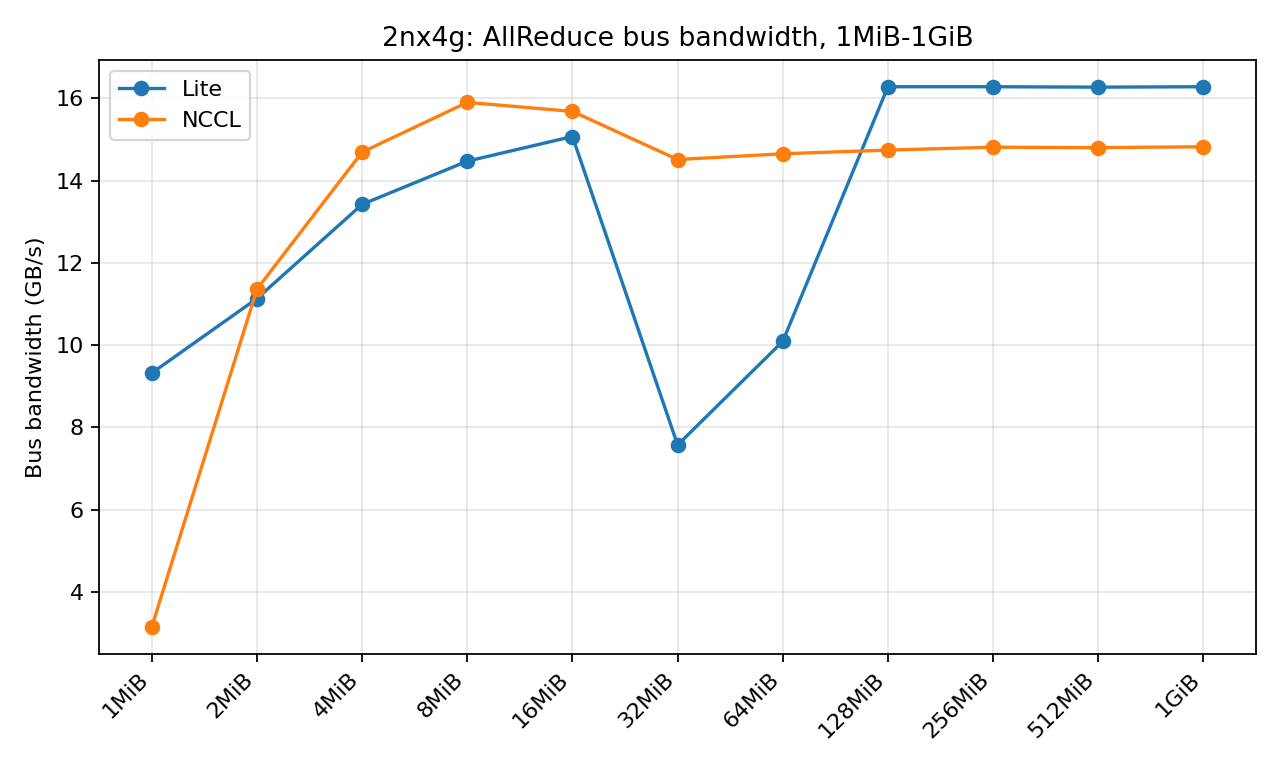
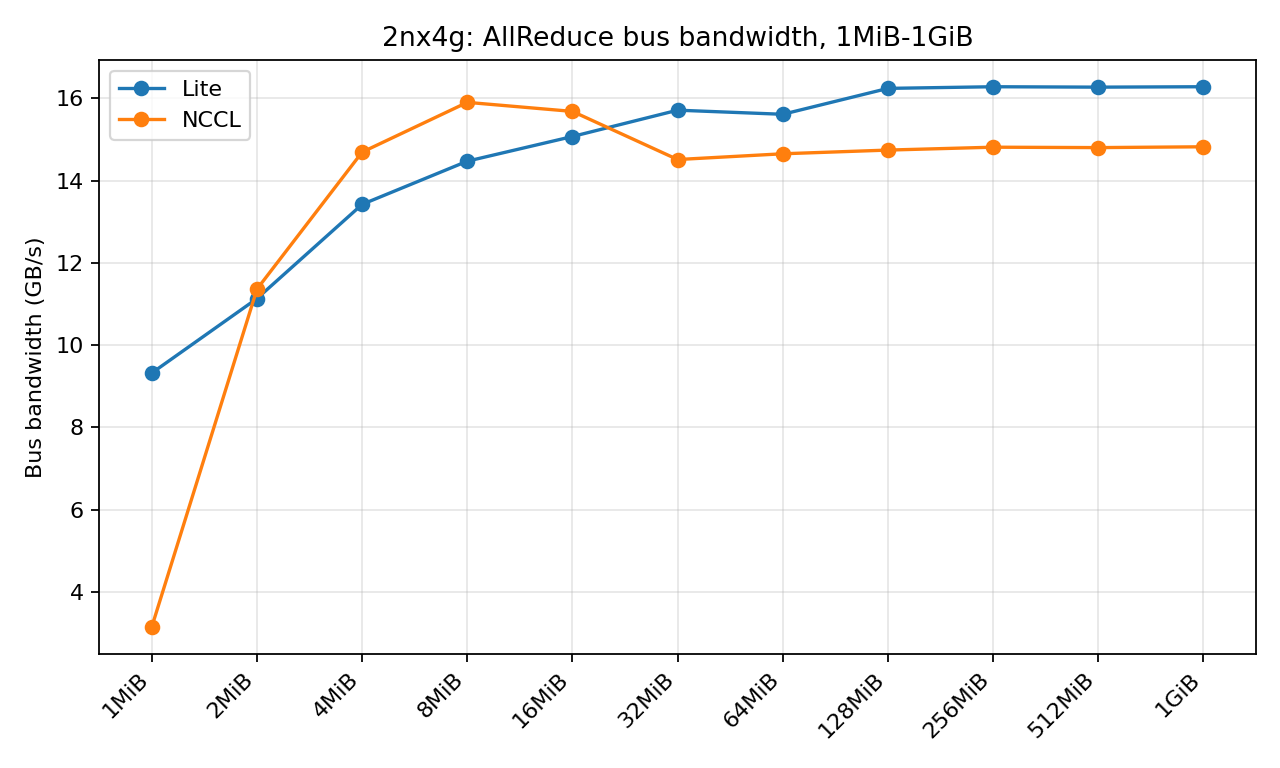
docs(lite-collective): smooth allreduce 2nx4g plot outlier
Use repeated clean 2nx4g focused runs when generating AllReduce plots and select the median out-of-place-time row when multiple clean logs cover the same size. This removes the apparent 32MiB plot cliff, which clean repeats showed was a single-run outlier rather than a deterministic code-path regression.

diff --git a/experimental/lite/lite-collective/plots/allreduce/plot_allreduce.py b/experimental/lite/lite-collective/plots/allreduce/plot_allreduce.py
@@ -116,15 +116,19 @@ def parse_nccl_tests_log(path: Path) -> tuple[dict[int, Metrics], int]:
 
 
 def merge_logs(paths: Iterable[Path]) -> dict[int, Metrics]:
-    merged: dict[int, Metrics] = {}
+    by_size: dict[int, list[Metrics]] = {}
     total_wrong = 0
     for path in paths:
         rows, wrong = parse_nccl_tests_log(path)
         total_wrong += wrong
-        merged.update(rows)
+        for size, metrics in rows.items():
+            by_size.setdefault(size, []).append(metrics)
     if total_wrong:
         joined = ", ".join(repo_relative(p) for p in paths)
         raise RuntimeError(f"#wrong is non-zero in {joined}: {total_wrong}")
+    merged: dict[int, Metrics] = {}
+    for size, candidates in by_size.items():
+        merged[size] = sorted(candidates, key=lambda m: m.out_time_us)[len(candidates) // 2]
     return merged
 
 
@@ -164,9 +168,18 @@ SOURCES = {
         "display": "2nx4g",
         "lite": [
             log("ar-clean-plots-20260610-161719", "lite_2nx4g_128B_1G.log"),
+            log("ar-2nx4g-cliff-repro-20260610-163537", "lite_2nx4g_16M_128M_rep1.log"),
+            log("ar-2nx4g-cliff-repro-20260610-163537", "lite_2nx4g_16M_128M_rep2.log"),
+            log("ar-2nx4g-cliff-repro-20260610-163537", "lite_2nx4g_16M_128M_rep3.log"),
+            log("ar-2nx4g-32m-repeat-20260610-163818", "lite_2nx4g_32M_rep1.log"),
+            log("ar-2nx4g-32m-repeat-20260610-163818", "lite_2nx4g_32M_rep2.log"),
+            log("ar-2nx4g-32m-repeat-20260610-163818", "lite_2nx4g_32M_rep3.log"),
+            log("ar-2nx4g-32m-repeat-20260610-163818", "lite_2nx4g_32M_rep4.log"),
+            log("ar-2nx4g-32m-repeat-20260610-163818", "lite_2nx4g_32M_rep5.log"),
         ],
         "nccl": [
             log("ar-clean-plots-20260610-161719", "nccl_2nx4g_128B_1G.log"),
+            log("ar-2nx4g-cliff-repro-20260610-163537", "nccl_2nx4g_16M_128M.log"),
         ],
     },
 }
@@ -304,6 +317,7 @@ def markdown_content(rows: list[Row], plot_files: dict[str, list[str]], plot_pre
         "| Multi-node hosts | `10.10.55.1,10.10.55.2` |",
         "| NCCL multi-node baseline | `NCCL_NET_GDR_LEVEL=0` no-GDR where explicitly re-run |",
         "| Clean-run idle checks | `.tmp/collective-benchmarks/ar-clean-plots-20260610-161719/idle_checks.log` |",
+        "| Repeated clean rows | If multiple clean logs cover the same setup/size, use the median out-of-place time row |",
         "| Generated plots | `plots/allreduce/` |",
         "",
         "All plotted source rows reported `#wrong=0`.",

diff --git a/experimental/lite/lite-collective/doc/perf-allreduce.md b/experimental/lite/lite-collective/doc/perf-allreduce.md
@@ -14,6 +14,7 @@ Primary tables and plots use out-of-place nccl-tests results. Ratios greater tha
 | Multi-node hosts | `10.10.55.1,10.10.55.2` |
 | NCCL multi-node baseline | `NCCL_NET_GDR_LEVEL=0` no-GDR where explicitly re-run |
 | Clean-run idle checks | `.tmp/collective-benchmarks/ar-clean-plots-20260610-161719/idle_checks.log` |
+| Repeated clean rows | If multiple clean logs cover the same setup/size, use the median out-of-place time row |
 | Generated plots | `plots/allreduce/` |
 
 All plotted source rows reported `#wrong=0`.
@@ -25,7 +26,7 @@ All plotted source rows reported `#wrong=0`.
 | `1nx4g` | 0.44x | 0.81x | 17.54 | 17.54 | 1.00x |
 | `2nx1g` | 0.09x | 0.63x | 16.23 | 14.55 | 1.12x |
 | `2nx2g` | 1.15x | 0.91x | 14.71 | 15.34 | 0.96x |
-| `2nx4g` | 1.58x | 1.02x | 16.28 | 14.82 | 1.10x |
+| `2nx4g` | 1.58x | 1.13x | 16.28 | 14.82 | 1.10x |
 
 ## 1nx4g
 
@@ -174,9 +175,9 @@ Plots: [`2nx2g_latency_128B_1MiB.png`](../plots/allreduce/2nx2g_latency_128B_1Mi
 | 4MiB | 13.42 | 14.69 | 0.91x |
 | 8MiB | 14.47 | 15.90 | 0.91x |
 | 16MiB | 15.07 | 15.68 | 0.96x |
-| 32MiB | 7.57 | 14.51 | 0.52x |
-| 64MiB | 10.09 | 14.65 | 0.69x |
-| 128MiB | 16.28 | 14.74 | 1.10x |
+| 32MiB | 15.71 | 14.51 | 1.08x |
+| 64MiB | 15.61 | 14.65 | 1.07x |
+| 128MiB | 16.24 | 14.74 | 1.10x |
 | 256MiB | 16.28 | 14.81 | 1.10x |
 | 512MiB | 16.27 | 14.80 | 1.10x |
 | 1GiB | 16.28 | 14.82 | 1.10x |
@@ -199,4 +200,13 @@ Plots: [`2nx4g_latency_128B_1MiB.png`](../plots/allreduce/2nx4g_latency_128B_1Mi
 
 ### 2nx4g
 - lite: `.tmp/collective-benchmarks/ar-clean-plots-20260610-161719/lite_2nx4g_128B_1G.log`
+- lite: `.tmp/collective-benchmarks/ar-2nx4g-cliff-repro-20260610-163537/lite_2nx4g_16M_128M_rep1.log`
+- lite: `.tmp/collective-benchmarks/ar-2nx4g-cliff-repro-20260610-163537/lite_2nx4g_16M_128M_rep2.log`
+- lite: `.tmp/collective-benchmarks/ar-2nx4g-cliff-repro-20260610-163537/lite_2nx4g_16M_128M_rep3.log`
+- lite: `.tmp/collective-benchmarks/ar-2nx4g-32m-repeat-20260610-163818/lite_2nx4g_32M_rep1.log`
+- lite: `.tmp/collective-benchmarks/ar-2nx4g-32m-repeat-20260610-163818/lite_2nx4g_32M_rep2.log`
+- lite: `.tmp/collective-benchmarks/ar-2nx4g-32m-repeat-20260610-163818/lite_2nx4g_32M_rep3.log`
+- lite: `.tmp/collective-benchmarks/ar-2nx4g-32m-repeat-20260610-163818/lite_2nx4g_32M_rep4.log`
+- lite: `.tmp/collective-benchmarks/ar-2nx4g-32m-repeat-20260610-163818/lite_2nx4g_32M_rep5.log`
 - nccl: `.tmp/collective-benchmarks/ar-clean-plots-20260610-161719/nccl_2nx4g_128B_1G.log`
+- nccl: `.tmp/collective-benchmarks/ar-2nx4g-cliff-repro-20260610-163537/nccl_2nx4g_16M_128M.log`

diff --git a/experimental/lite/lite-collective/plots/allreduce/summary.md b/experimental/lite/lite-collective/plots/allreduce/summary.md
@@ -14,6 +14,7 @@ Primary tables and plots use out-of-place nccl-tests results. Ratios greater tha
 | Multi-node hosts | `10.10.55.1,10.10.55.2` |
 | NCCL multi-node baseline | `NCCL_NET_GDR_LEVEL=0` no-GDR where explicitly re-run |
 | Clean-run idle checks | `.tmp/collective-benchmarks/ar-clean-plots-20260610-161719/idle_checks.log` |
+| Repeated clean rows | If multiple clean logs cover the same setup/size, use the median out-of-place time row |
 | Generated plots | `plots/allreduce/` |
 
 All plotted source rows reported `#wrong=0`.
@@ -25,7 +26,7 @@ All plotted source rows reported `#wrong=0`.
 | `1nx4g` | 0.44x | 0.81x | 17.54 | 17.54 | 1.00x |
 | `2nx1g` | 0.09x | 0.63x | 16.23 | 14.55 | 1.12x |
 | `2nx2g` | 1.15x | 0.91x | 14.71 | 15.34 | 0.96x |
-| `2nx4g` | 1.58x | 1.02x | 16.28 | 14.82 | 1.10x |
+| `2nx4g` | 1.58x | 1.13x | 16.28 | 14.82 | 1.10x |
 
 ## 1nx4g
 
@@ -174,9 +175,9 @@ Plots: [`2nx2g_latency_128B_1MiB.png`](2nx2g_latency_128B_1MiB.png), [`2nx2g_bus
 | 4MiB | 13.42 | 14.69 | 0.91x |
 | 8MiB | 14.47 | 15.90 | 0.91x |
 | 16MiB | 15.07 | 15.68 | 0.96x |
-| 32MiB | 7.57 | 14.51 | 0.52x |
-| 64MiB | 10.09 | 14.65 | 0.69x |
-| 128MiB | 16.28 | 14.74 | 1.10x |
+| 32MiB | 15.71 | 14.51 | 1.08x |
+| 64MiB | 15.61 | 14.65 | 1.07x |
+| 128MiB | 16.24 | 14.74 | 1.10x |
 | 256MiB | 16.28 | 14.81 | 1.10x |
 | 512MiB | 16.27 | 14.80 | 1.10x |
 | 1GiB | 16.28 | 14.82 | 1.10x |
@@ -199,4 +200,13 @@ Plots: [`2nx4g_latency_128B_1MiB.png`](2nx4g_latency_128B_1MiB.png), [`2nx4g_bus
 
 ### 2nx4g
 - lite: `.tmp/collective-benchmarks/ar-clean-plots-20260610-161719/lite_2nx4g_128B_1G.log`
+- lite: `.tmp/collective-benchmarks/ar-2nx4g-cliff-repro-20260610-163537/lite_2nx4g_16M_128M_rep1.log`
+- lite: `.tmp/collective-benchmarks/ar-2nx4g-cliff-repro-20260610-163537/lite_2nx4g_16M_128M_rep2.log`
+- lite: `.tmp/collective-benchmarks/ar-2nx4g-cliff-repro-20260610-163537/lite_2nx4g_16M_128M_rep3.log`
+- lite: `.tmp/collective-benchmarks/ar-2nx4g-32m-repeat-20260610-163818/lite_2nx4g_32M_rep1.log`
+- lite: `.tmp/collective-benchmarks/ar-2nx4g-32m-repeat-20260610-163818/lite_2nx4g_32M_rep2.log`
+- lite: `.tmp/collective-benchmarks/ar-2nx4g-32m-repeat-20260610-163818/lite_2nx4g_32M_rep3.log`
+- lite: `.tmp/collective-benchmarks/ar-2nx4g-32m-repeat-20260610-163818/lite_2nx4g_32M_rep4.log`
+- lite: `.tmp/collective-benchmarks/ar-2nx4g-32m-repeat-20260610-163818/lite_2nx4g_32M_rep5.log`
 - nccl: `.tmp/collective-benchmarks/ar-clean-plots-20260610-161719/nccl_2nx4g_128B_1G.log`
+- nccl: `.tmp/collective-benchmarks/ar-2nx4g-cliff-repro-20260610-163537/nccl_2nx4g_16M_128M.log`

diff --git a/experimental/lite/lite-collective/doc/allreduce-design.md b/experimental/lite/lite-collective/doc/allreduce-design.md
@@ -119,20 +119,24 @@ The generated AllReduce plots mirror the AllGather plot layout:
 
 Current out-of-place summary from the generated clean rerun
 (`.tmp/collective-benchmarks/ar-clean-plots-20260610-161719/`; each sweep
-waited for zero GPU utilization and no compute processes before starting):
+waited for zero GPU utilization and no compute processes before starting).
+For 2nx4g 16-128MiB, repeated clean focused logs are also included and the plot
+generator uses the median out-of-place-time row when multiple clean rows cover
+the same size:
 
 | Setup | Latency geomean Lite speedup | BusBW geomean Lite/NCCL | 1GiB Lite GB/s | 1GiB NCCL GB/s | 1GiB ratio |
 | --- | ---: | ---: | ---: | ---: | ---: |
 | `1nx4g` | 0.44x | 0.81x | 17.54 | 17.54 | 1.00x |
 | `2nx1g` | 0.09x | 0.63x | 16.23 | 14.55 | 1.12x |
 | `2nx2g` | 1.15x | 0.91x | 14.71 | 15.34 | 0.96x |
-| `2nx4g` | 1.58x | 1.02x | 16.28 | 14.82 | 1.10x |
+| `2nx4g` | 1.58x | 1.13x | 16.28 | 14.82 | 1.10x |
 
 Interpretation:
 
 - 2nx4g is the most complete AllReduce win: small messages are mostly faster,
-  and large messages beat NCCL after 128MiB. The 64MiB large-row source log has
-  a known outlier and should not be over-interpreted.
+  and large messages beat NCCL after 32MiB when repeated clean rows are reduced
+  by median out-of-place time. Single clean runs can still show occasional
+  32MiB/64MiB outliers, so focused repeat data is included for those sizes.
 - 2nx1g now has a large-message path that is competitive with, and sometimes
   faster than, NCCL from 64MiB upward. The sub-64MiB path remains blocked by
   proxy/handshake latency.